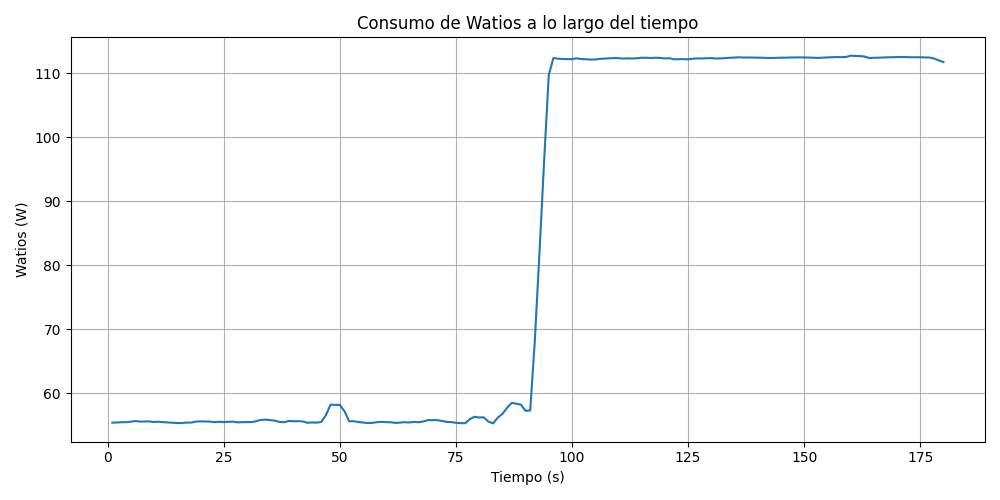
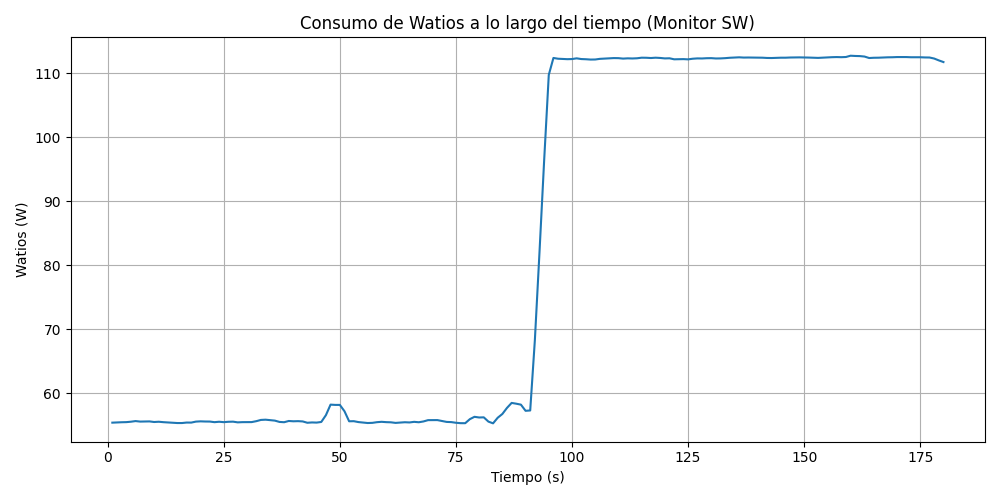
Implementado el dibujado del gráfico del porcentaje de uso de la GPU

Changed region(s): [[0.279, 0.03, 0.775, 0.06]]

diff --git a/plt_pwr.py b/plt_pwr.py
@@ -2,33 +2,51 @@ import matplotlib.pyplot as plt
 import pandas as pd
 
 def main():
-    name = 'test1_ignasi'
+    name_hw = 'test1_ignasi'   # Nombre del archivo del monitor Hardware
+    name_sw = 'gpu_log'          # Nombne del archivo del monitor Software
+
     # Cargar el archivo
-    df = pd.read_csv(
-        "%s.txt" % name,  # Cambia por el nombre de tu archivo
+    df_hw = pd.read_csv(
+        "%s.txt" % name_hw,
         sep="\t",  # Separación por tabulación
         decimal=",",  # Convierte comas a decimales reales
         engine="python"  # Permite separadores irregulares
     )
 
+    df_sw = pd.read_csv("%s.csv" % name_sw)
+
     # Convertir W a número y quitar signo negativo
-    df["W"] = df["W"].astype(float).abs()
+    df_hw["W"] = df_hw["W"].astype(float).abs()
 
     # Crear eje de tiempo en segundos: 1, 2, 3...
-    df["t_seconds"] = range(1, len(df) + 1)
+    df_hw["t_seconds"] = range(1, len(df_hw) + 1)
+    df_sw["t_seconds"] = range(1, len(df_sw) + 1)
 
-    print(f"\nDuración total de la prueba: {len(df)}s")
-    print(f"Duración total formateada (HH:MM:SS): {len(df)// 3600:02d}:{(len(df) % 3600) // 60:02d}:{len(df)% 60:02d}")
+    print(f"\nDuración total de la prueba Hardware: {len(df_hw)}s")
+    print(f"Duración total de la prueba Software: {len(df_sw)}s")
+    print(f"\nDuración total formateada Hardware (HH:MM:SS): {len(df_hw)// 3600:02d}:{(len(df_hw) % 3600) // 60:02d}:{len(df_hw)% 60:02d}")
+    print(f"Duración total formateada Hardware (HH:MM:SS): {len(df_sw)// 3600:02d}:{(len(df_sw) % 3600) // 60:02d}:{len(df_sw)% 60:02d}")
 
-    # Graficamos los resultados
+    # Graficamos los resultados del monitor SW
     plt.figure(figsize=(10, 5))
-    plt.plot(df["t_seconds"], df["W"], linewidth=1.5)
+    plt.plot(df_hw["t_seconds"], df_hw["W"], linewidth=1.5)
     plt.xlabel("Tiempo (s)")
     plt.ylabel("Watios (W)")
-    plt.title("Consumo de Watios a lo largo del tiempo")
+    plt.title("Consumo de Watios a lo largo del tiempo (Monitor SW)")
     plt.grid(True)
     plt.tight_layout()
-    plt.savefig('Plots/Plot_%s.png' % name)
+    plt.savefig('Plots/Plot_%s.png' % name_hw)
+    plt.show()
+
+    # Graficamos los resultados del monitor HW
+    plt.figure(figsize=(10, 5))
+    plt.plot(df_sw["t_seconds"], df_sw[" utilization.gpu [%]"], linewidth=1.5)
+    plt.xlabel("Tiempo (s)")
+    plt.ylabel("Uso de GPU (%)")
+    plt.title("Porcentaje de uso de la GPU")
+    plt.grid(True)
+    plt.tight_layout()
+    plt.savefig('Plots/Plot_%s.png' % name_sw)
     plt.show()
 
 
